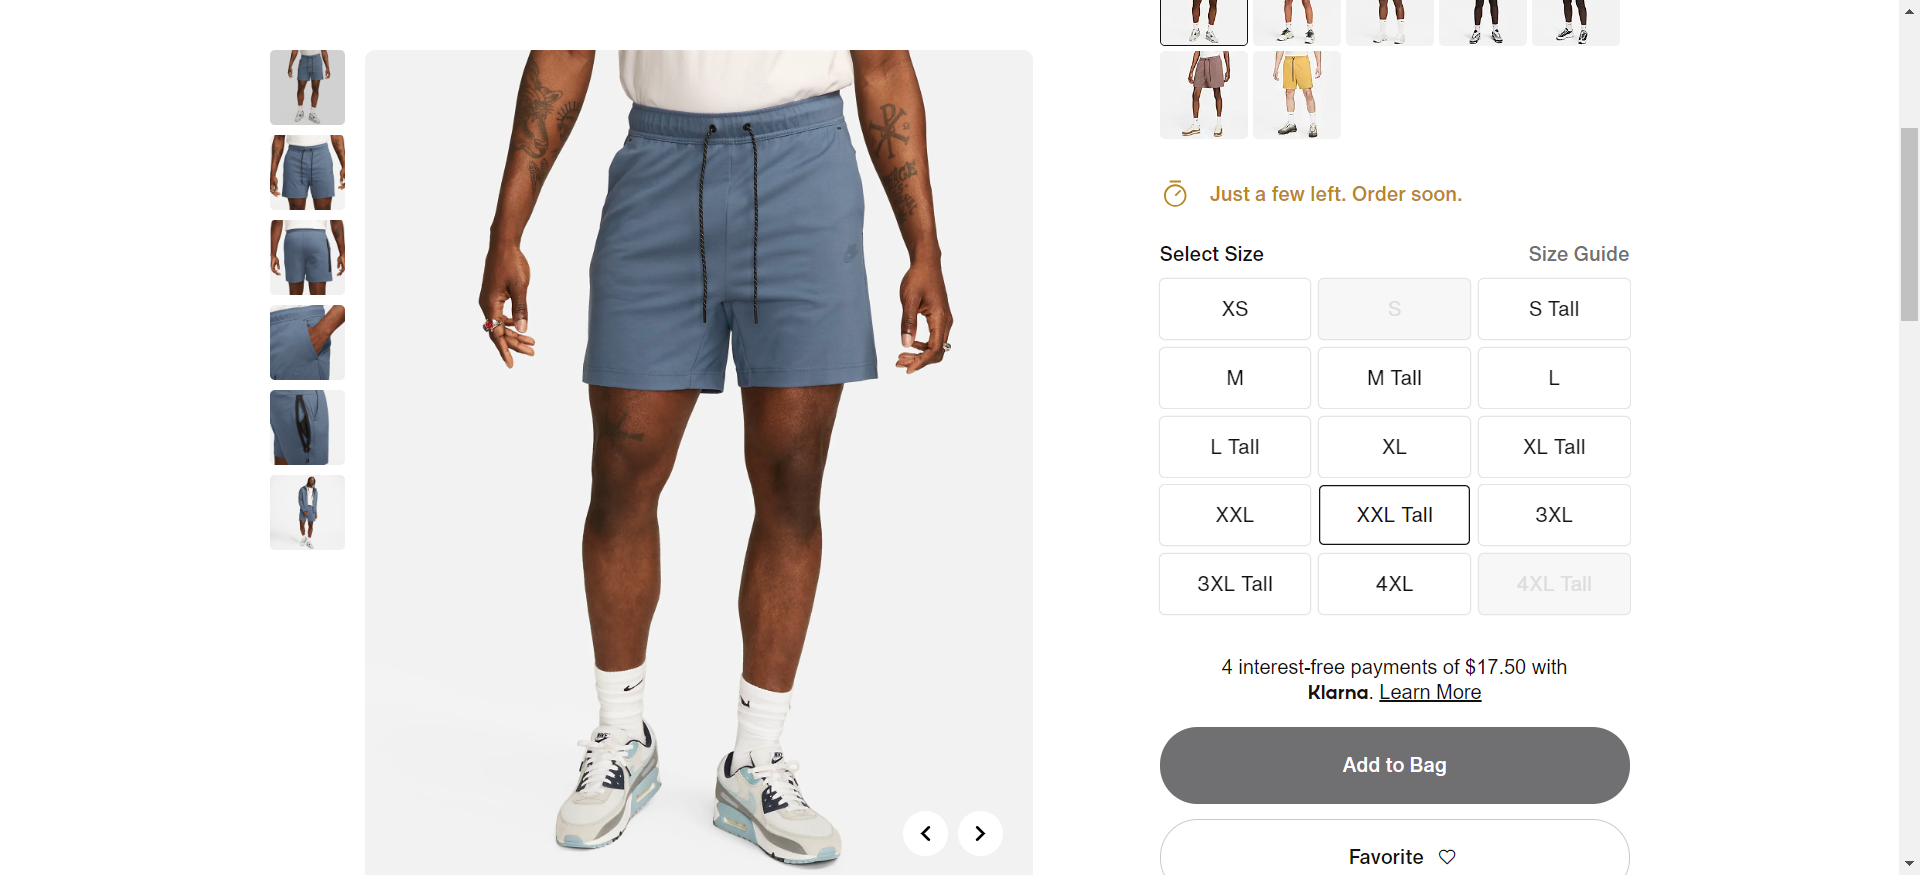
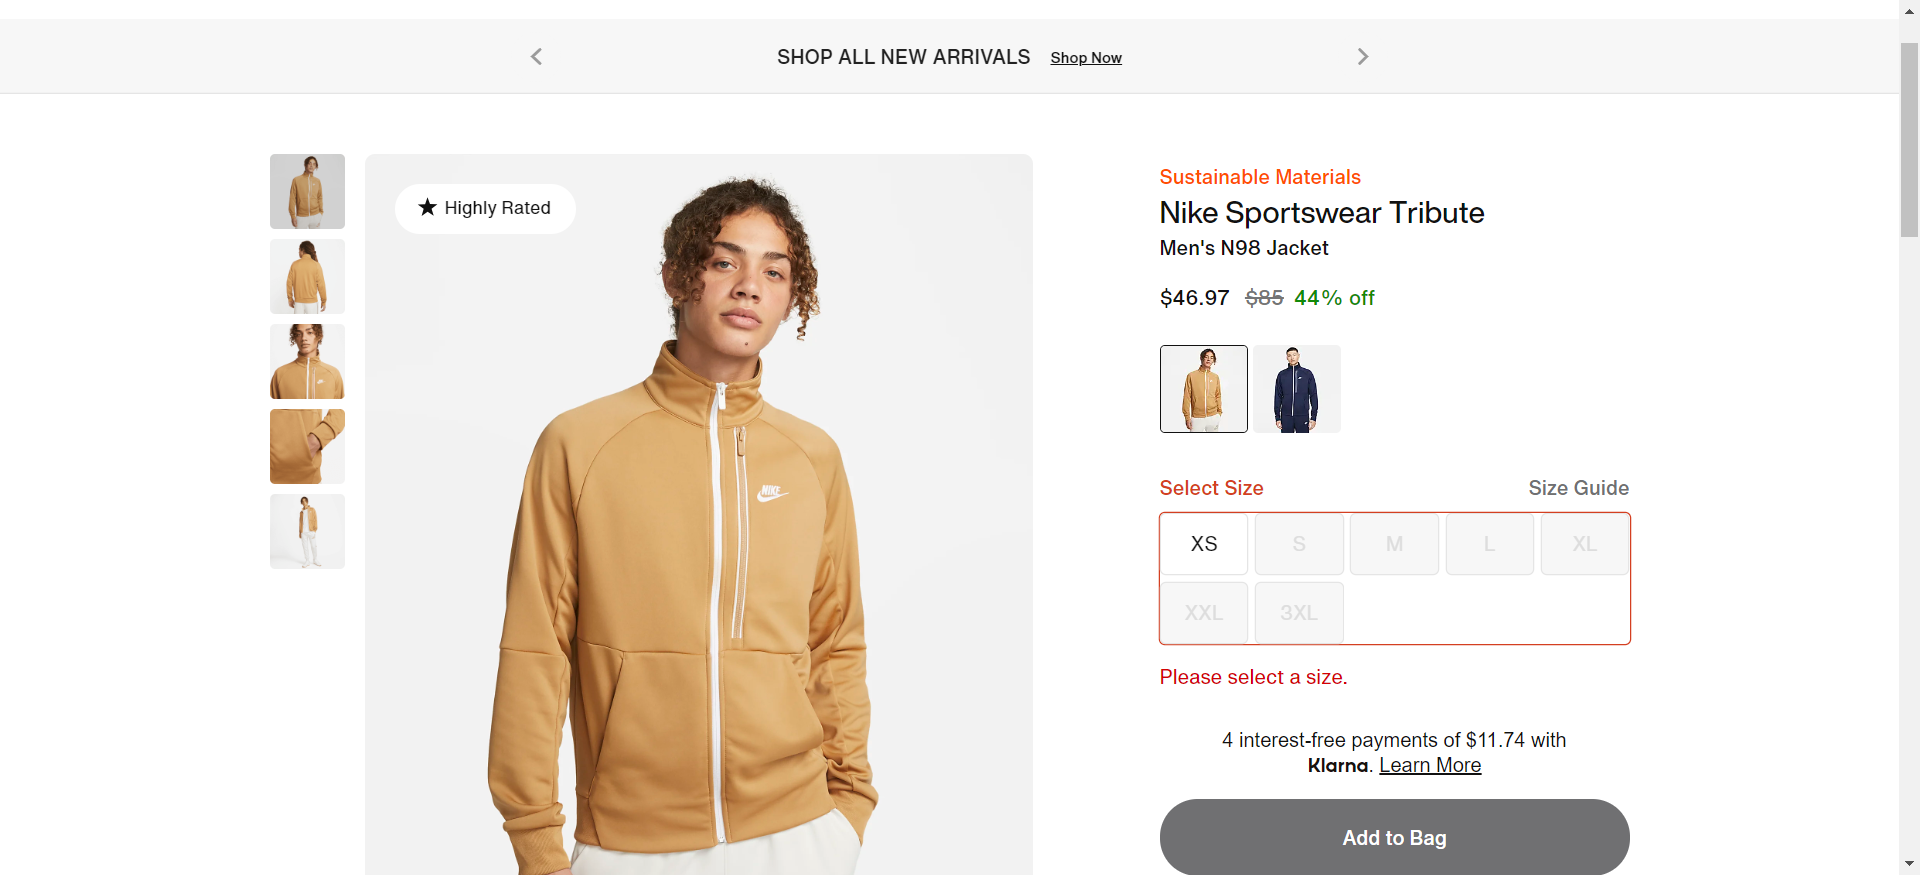
fourth push

diff --git a/nikeTest.test.ts b/nikeTest.test.ts
@@ -2,21 +2,22 @@ import { nikePage } from "./nikePage";
 const nike = new nikePage()
 const fs = require('fs')
 
-describe("Selecting shorts from Men Page", ()=> {
+describe("Selecting jacket from Men Page", ()=> {
 beforeEach(async () => {
     await nike.navigate()
 })
 afterAll(async () => {
     await nike.driver.quit()
 })
-test("Selecting an item and proceeding to checkout",async () => {
+test("Selecting an item and taking a Screenshot",async () => {
+    await nike.driver.manage().window().maximize()
     await nike.click(nike.mensTab);
     await nike.click(nike.clothingTab);
     await nike.driver.sleep(1500)
-    await nike.click(nike.techShorts);
-    await nike.click(nike.blueTechShorts);
-    await nike.click(nike.size);
+    await nike.click(nike.jacketsAndVestFilter);
+    await nike.click(nike.fleeceJacketBtn);
     await nike.driver.sleep(3000);
+    await nike.click(nike.secondOptionBtn);
     await nike.repeatClick(10, nike.addToBag);
     fs.writeFile(`${__dirname}/addToBag.png`,
     await nike.driver.takeScreenshot(), "base64",
@@ -24,5 +25,5 @@ test("Selecting an item and proceeding to checkout",async () => {
         if (e) console.log(e)
         else console.log("screenshot saved")
     })
-   });
+});
 });

diff --git a/nikePage.ts b/nikePage.ts
@@ -9,6 +9,9 @@ export class nikePage extends BasePage {
     addToBag: By=By.xpath('//button[@class="ncss-btn-primary-dark btn-lg add-to-cart-btn"]');
     bagItems: By=By.xpath('(//a[@title="Bag Items: 1"])[2]');
     checkOutBtn: By=By.xpath('(//button[@data-version="__VERSION_HERE__"])[3]');
+    jacketsAndVestFilter: By=By.xpath('(//a[@aria-label="Category for Jackets & Vests"])');
+    fleeceJacketBtn: By=By.xpath('(//a[text()="Fleece Jackets"])');
+    secondOptionBtn: By=By.xpath('(//div[@data-product-position="2"])')
     //2nd test selectors
     signInTab: By=By.xpath('(//span[@id="hf_title_signin_membership"])[1]');
     userNameInput: By=By.xpath('(//input[@type="text"])');
